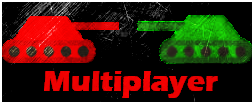
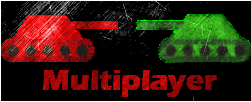
Test von Background

diff --git a/src/Window/MyWindow.java b/src/Window/MyWindow.java
@@ -29,8 +29,12 @@ public class MyWindow{
 
     private static Sound music;
 
+    static JLayeredPane layeredPane ;
+    static  JLabel label = new JLabel();
+
 
     static JFrame window;
+    static JRootPane rootPane ;
 
     // Image als Hintergrund  C:\Users\Santo\Desktop\Schule\Informatik\ShellShock\res\buttons\KnopfSingleplayerMetallic1.png
 
@@ -40,6 +44,7 @@ public class MyWindow{
 
     public MyWindow() throws UnsupportedAudioFileException, IOException, LineUnavailableException {
         window = new JFrame("SchoolShock");
+        rootPane = new JRootPane();
 
         window.setUndecorated(true);
 
@@ -87,6 +92,8 @@ public class MyWindow{
     public static void setContent(JPanel panel){
 
         window.setContentPane(panel);
+
+
         window.setVisible(true);
 
     }
@@ -100,8 +107,6 @@ public class MyWindow{
             setContent(new CreateProfil());
 
         }
-
-
 
     }
 }

diff --git a/src/Views/MainMenuView.java b/src/Views/MainMenuView.java
@@ -31,7 +31,7 @@ public class MainMenuView extends JPanel implements ActionListener {
             this.mainMenuModel = mainMenuModel;
 
             //Erstellen der Standard Backgrpundcolor
-            this.setBackground(MyWindow.backgroundColor);
+            //this.setBackground(MyWindow.backgroundColor);
 
             // Erzeugen des Overlays
             erzeugenOverlay();
